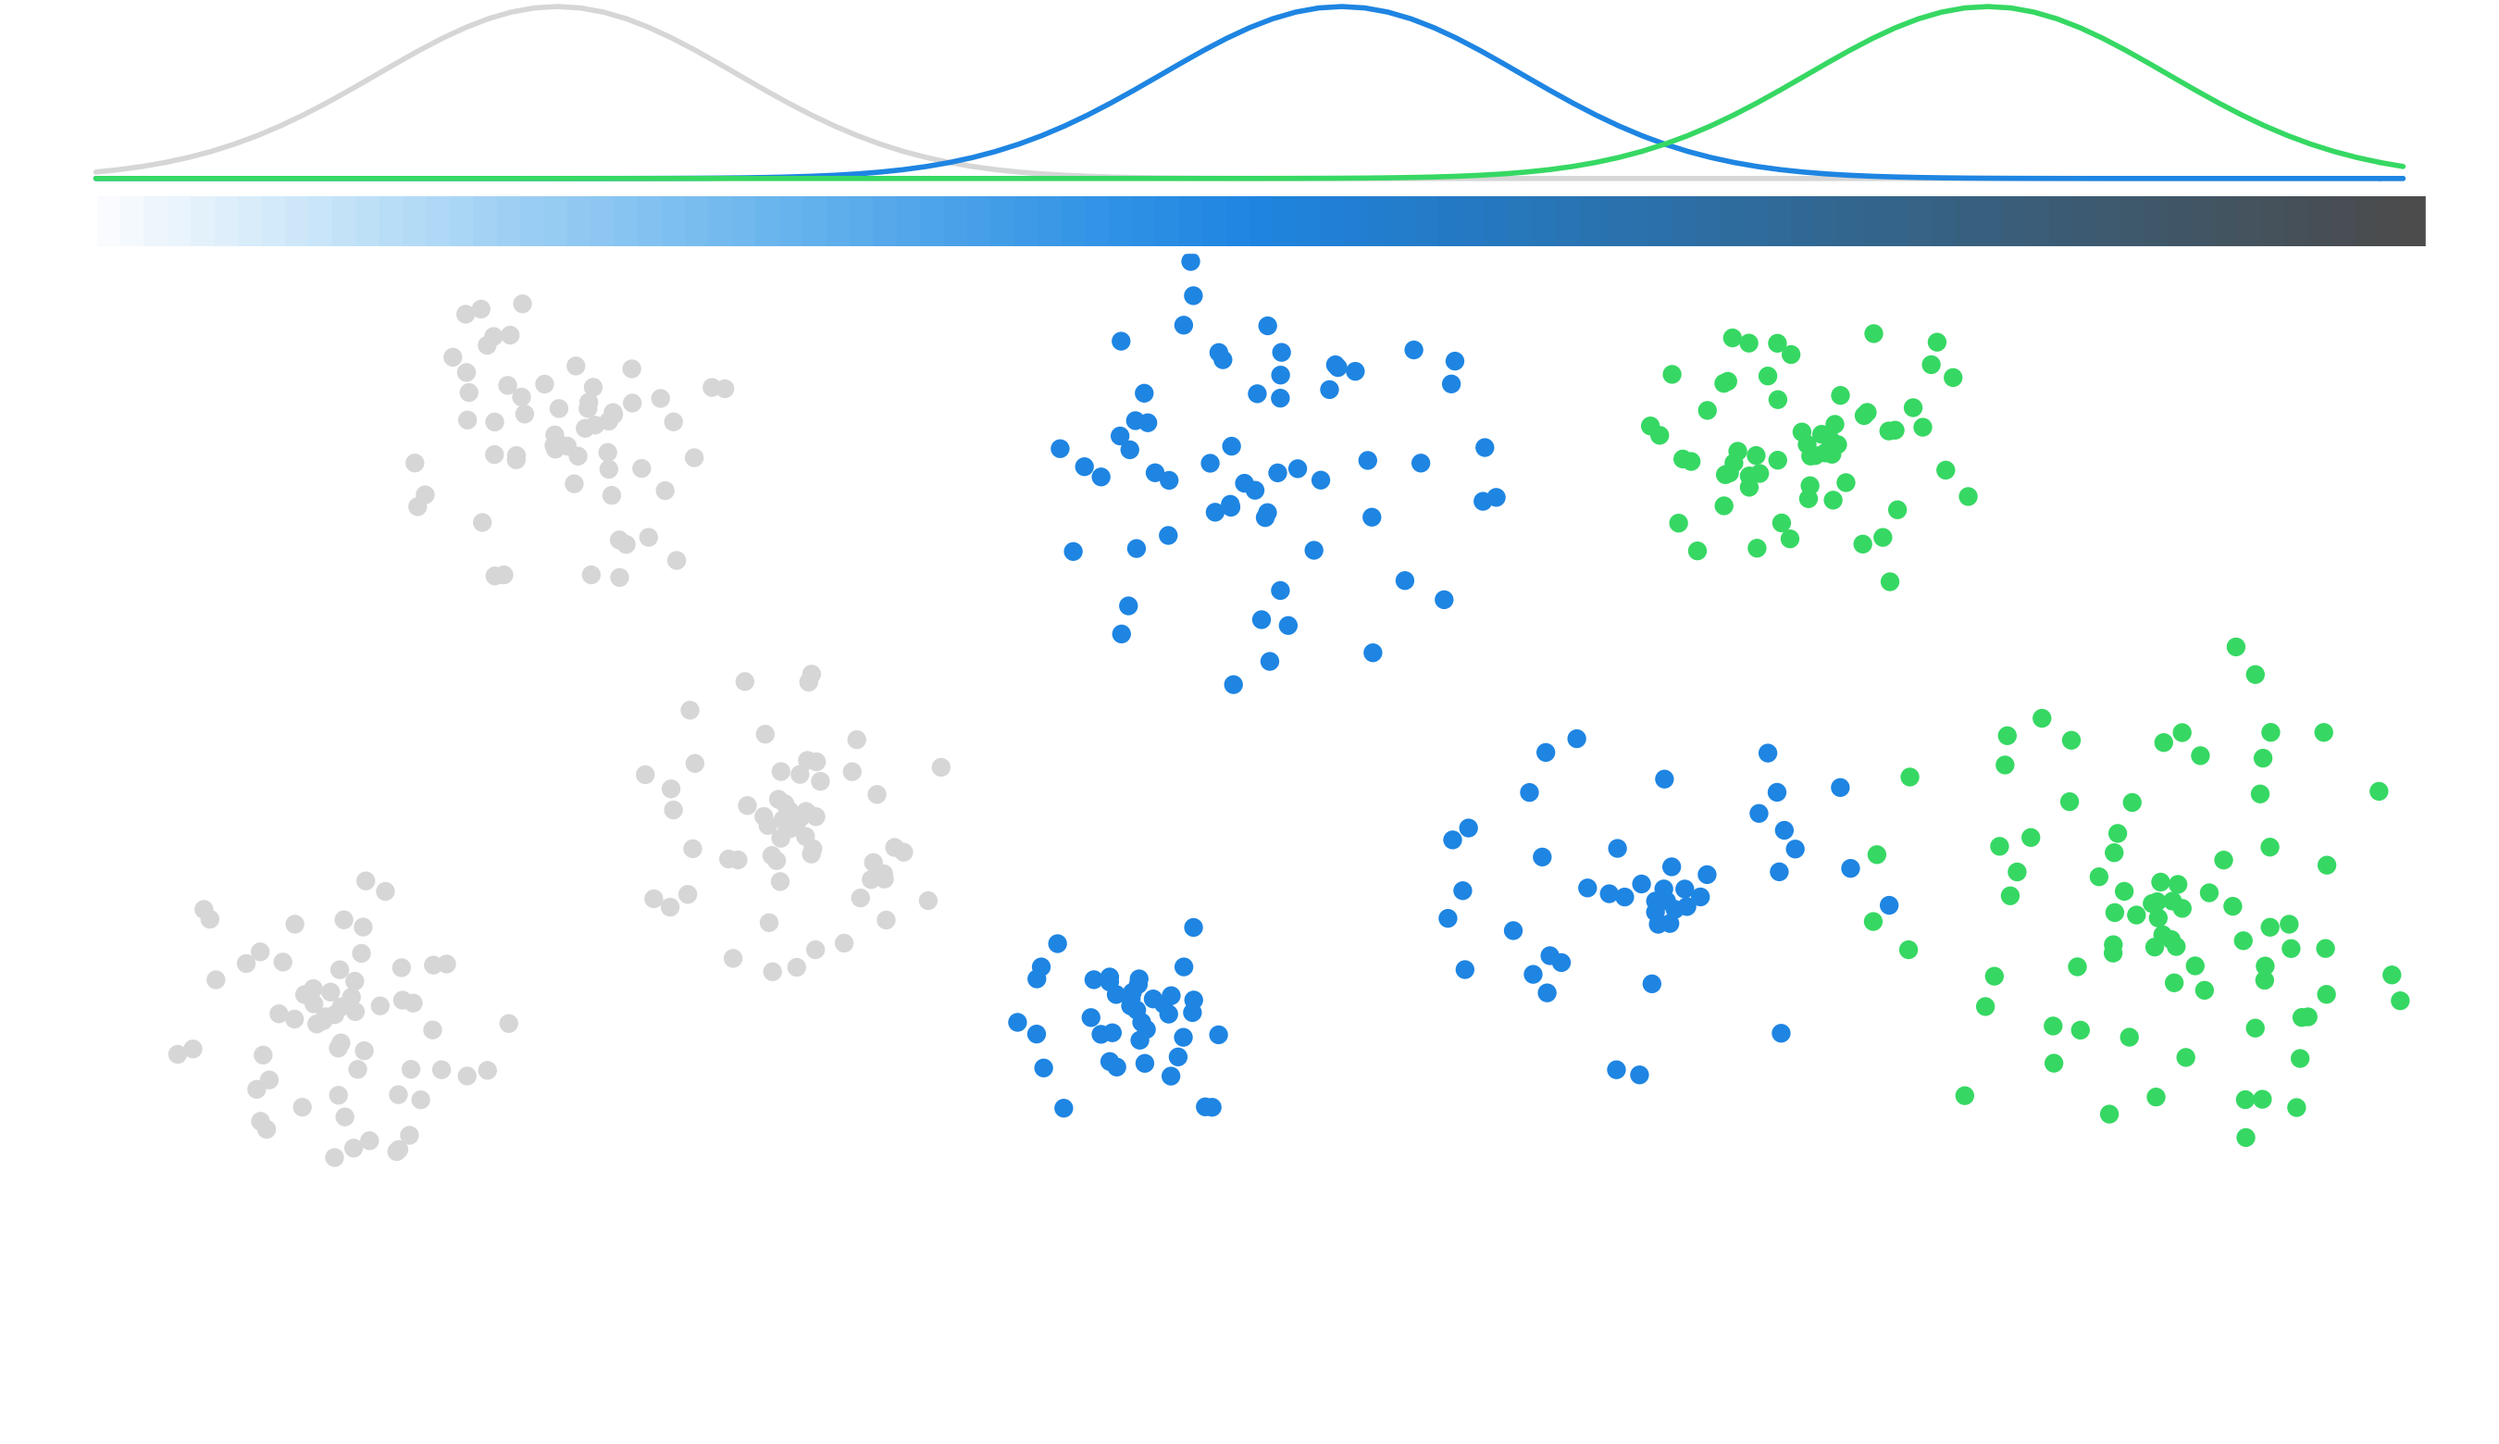
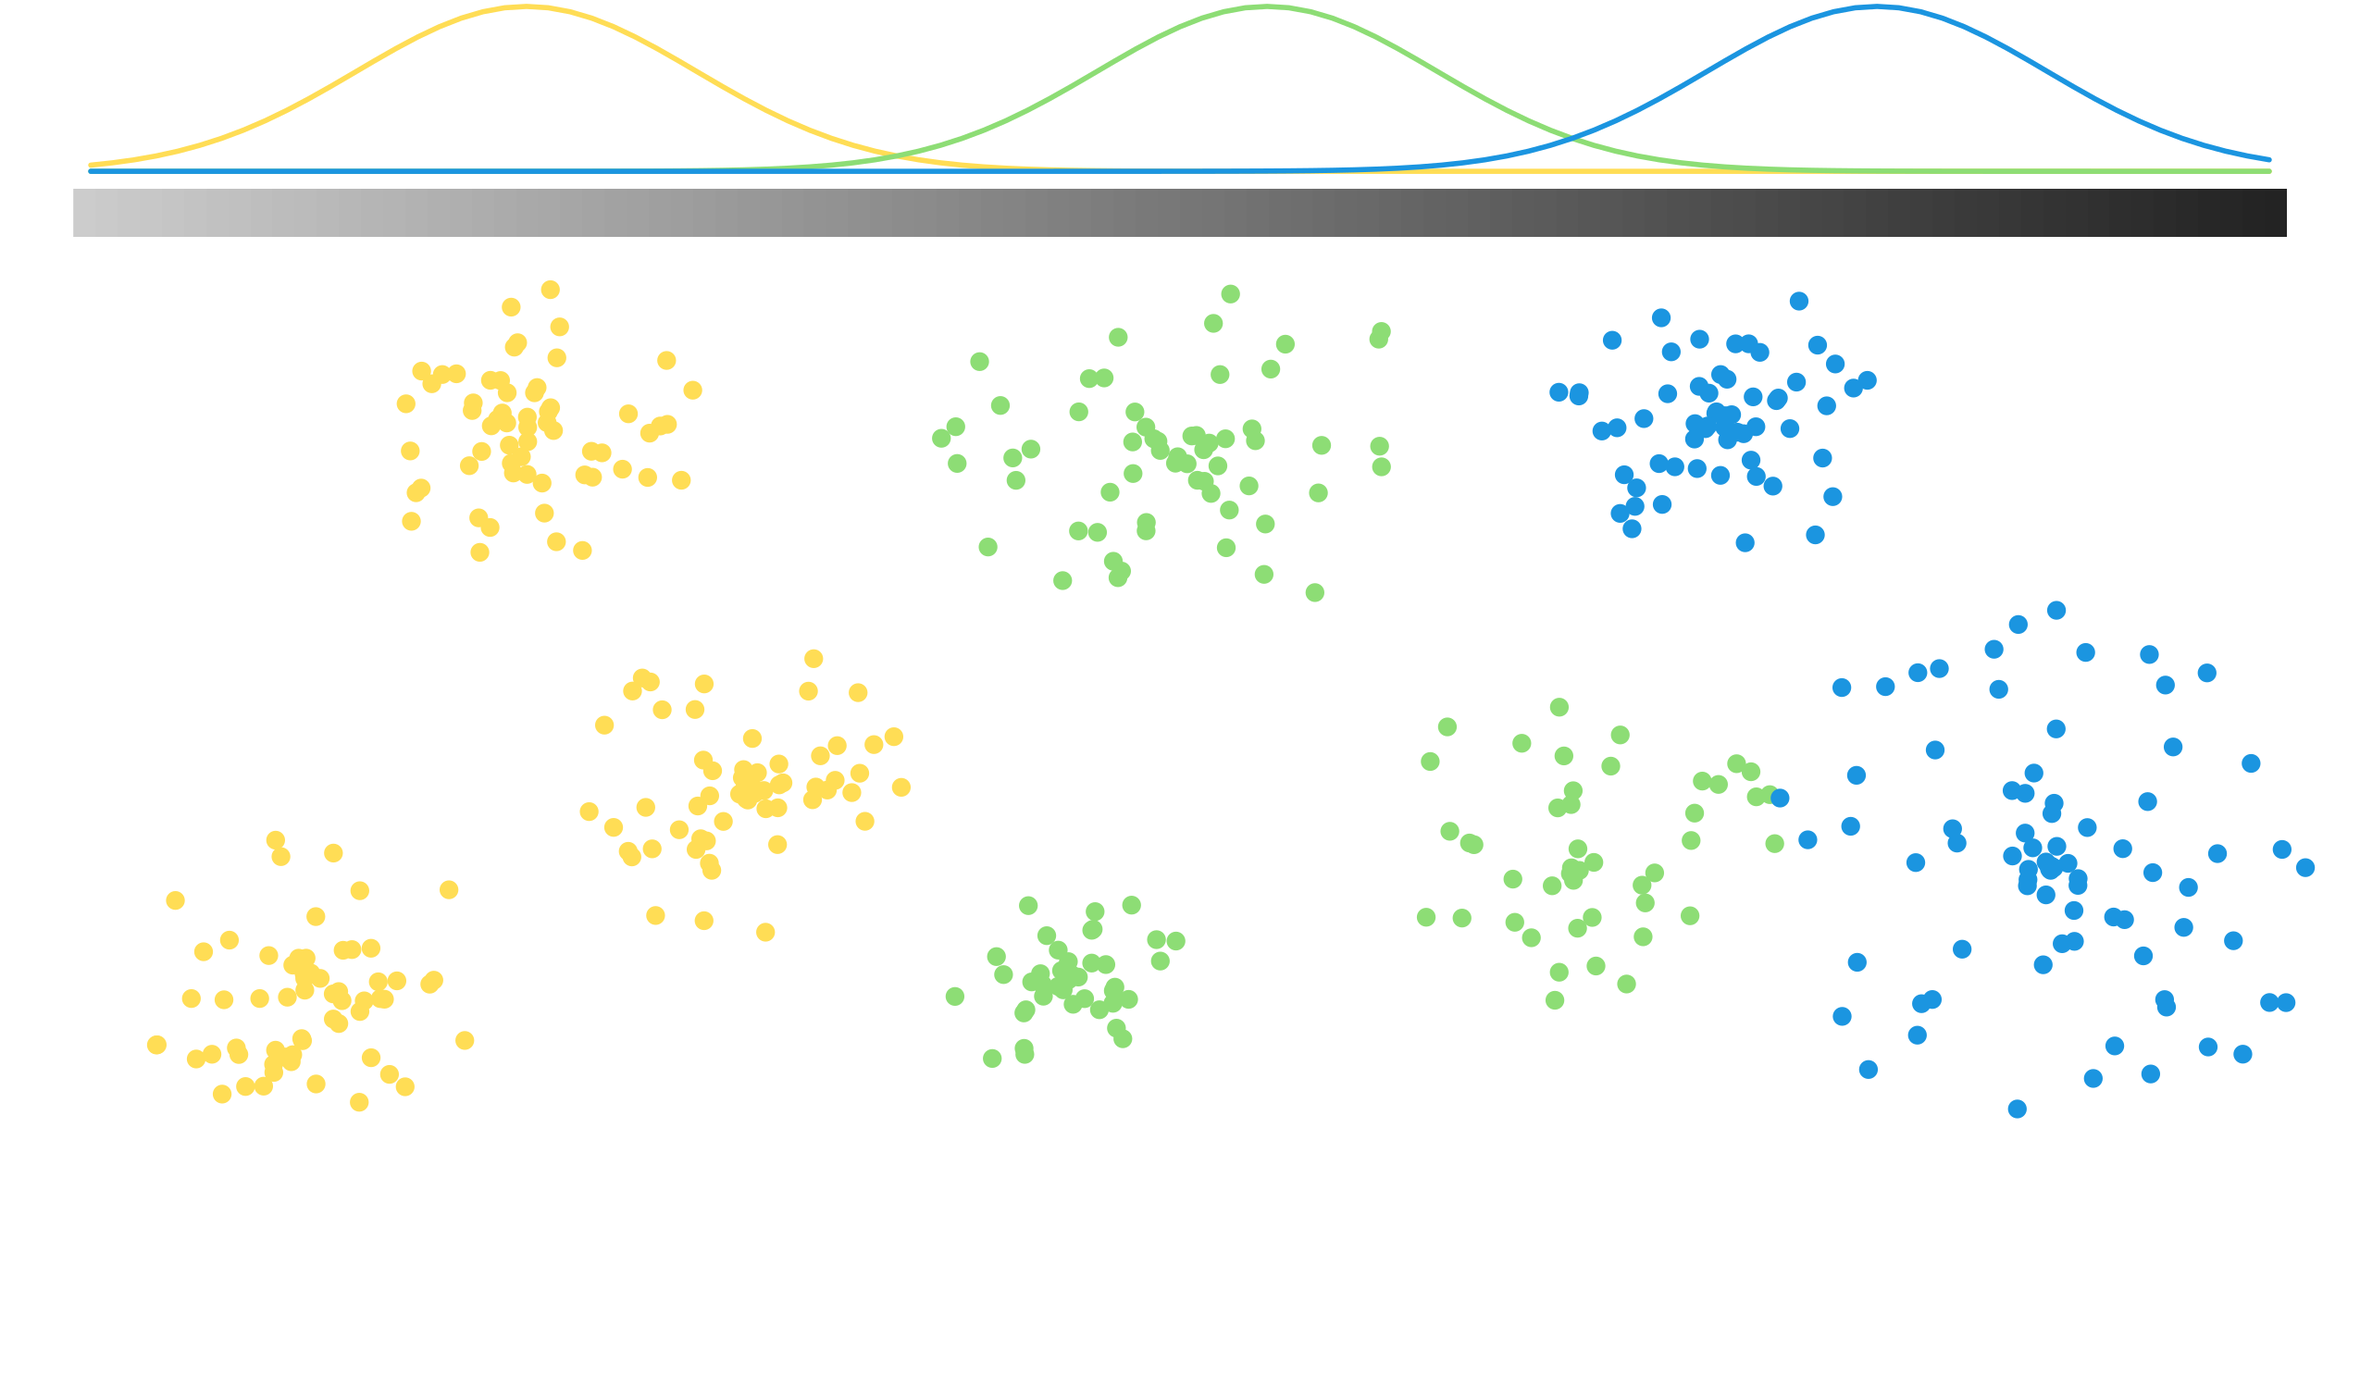
tune color first slides

diff --git a/index.html b/index.html
@@ -3,7 +3,7 @@
 
 <head>
 
-  <title> Towards an energetic theory of island biogeography </title>
+  <title> Toward an energetic theory of island biogeography </title>
   <meta charset="utf-8">
 
 
@@ -82,7 +82,7 @@
   }
 
   .small{
-    font-size: .87em;
+    font-size: .92em;
   }
 
   .alert{
@@ -123,12 +123,14 @@
   }
 
   .style1 {
-    background: #232323;
+    background: #212121;
     color: #fff;
     text-shadow: 0 0 2px #333;
   }
+
   .style1 h1, .style1 h2 {
     color: #fff;
+    font-size: 1.8em;
   }
 
   .style1 a {
@@ -145,7 +147,7 @@
 
   .style2 {
     background: #545454;
-    color: #232323;
+    color: #212121;
   }
   .style2 h1, .style2 h2 {
     color: #fff;
@@ -159,7 +161,7 @@
   }
 
   .style2 a {
-    color: #232323;
+    color: #212121;
   }
 
   </style>
@@ -182,16 +184,19 @@
     class: center, middle, style1
     ---
 
-    <br/>
 
-    # TOWARDS AN ENERGETIC THEORY OF ISLAND BIOGEOGRAPHY
+    # TOWARD AN ENERGETIC THEORY OF ISLAND BIOGEOGRAPHY
 
     <br/><br/>
     ### BSE Annual Meeting - December 14, 2017
 
     <br>
 
-    ### .left[[Kevin Cazelles](http://kevincazelles.fr) &nbsp;&nbsp; [<i class="fa fa-github" aria-hidden="true"></i>](https://github.com/KevCaz/talkBES2017)]
+    ### .left[[Kevin Cazelles](http://kevincazelles.fr)]
+
+    ### .left[<i class="fa fa-github" aria-hidden="true"></i> .small[[https://github.com/KevCaz/talkBES2017](https://github.com/KevCaz/talkBES2017)]]
+
+    <br>
 
     .right[[inSileco](https://inSileco.github.io/)]
     <img src="img/inSilecoLogo.png" height="120" align="right" style="padding:8px"/>
@@ -217,7 +222,56 @@
     layout: true
     class: style1
     ---
-    # A truism
+    # Biogeography: processes
+    <hr/>
+    .center[![:scale 100%](img/figall3.png)]
+
+    ---
+    # Biogeography: processes
+    <hr/>
+    .center[![:scale 100%](img/figall4.png)]
+
+    ---
+    # Biogeography: processes
+    <hr/>
+    .center[![:scale 100%](img/figall5.png)]
+
+    ---
+    # Biogeography: processes
+    <hr/>
+    .center[![:scale 100%](img/figall6.png)]
+
+    ---
+    # Biogeography: processes
+    <hr/>
+    .center[![:scale 100%](img/figall7.png)]
+
+    ---
+    # Biogeography: processes
+    <hr/>
+    .center[![:scale 100%](img/figall8.png)]
+
+    ---
+    # Factors influencing species distributions
+    <hr/><br/>
+    ## 1. Historical factors
+    --
+
+    ## 2. Dispersion
+    --
+
+    ## 3. Abiotic variables
+    --
+
+    ## 4. Biotic interactions
+    --
+
+    <br/>
+    # .center[[INTERDEPENDENT]()]
+
+
+    ---
+    # A truism?
     <hr/>
 
     <br><br>
@@ -227,10 +281,11 @@
     is intercepted and circulates in the form of our weather and climatic movements,
     and through animals and plants, before passing off again into space.
 
-    [Elton C., *Journal of Experimental Biology*, 1924.](http://jeb.biologists.org/content/2/1/119)
+    [Elton, *Journal of Experimental Biology*, 1924.](http://jeb.biologists.org/content/2/1/119)
 
     ---
-    # A truism
+    # A truism?
+    <hr/>
 
     ## Energy
 
@@ -245,59 +300,18 @@
 
 
     ---
-    # A truism
+    # A truism?
+    <hr/>
 
     .center[![:scale 100%](img/ecoreg.png)]
 
 
-    ---
-    # A set of rules
-    <hr/>
 
-    .center[![:scale 100%](img/figall4.png)]
-
-    ---
-    # A set of rules
-    <hr/>
-
-    .center[![:scale 100%](img/figall5.png)]
-
-    ---
-    # A set of rules
-    <hr/>
-
-    .center[![:scale 100%](img/figall6.png)]
-
-    ---
-    # A set of rules
-    <hr/>
-
-    .center[![:scale 100%](img/figall7.png)]
-
-
-
-    ---
-    # Factors influencing species distributions
-    <hr/><br/>
-    ## 1. Abiotic variables
-    --
-
-    ## 2. Dispersion
-    --
-
-    ## 3. Ecological interactions
-    --
-
-    ## 4. Historical factors
-    --
-
-    <br/>
-
-    # .center[[INTERDEPENDENT]()]
 
 
     ---
     # A challenge: predicting species distributions
+    <hr/>
 
     .center[![:scale 95%](img/figdem7.png)]
 
@@ -322,7 +336,7 @@
     ---
     # Building an Energetic TIB (a continuer)
     <hr />
-    ### How energy constrain species distribution?
+    ### How energy constrains species distribution?
 
 
     ---
@@ -345,47 +359,29 @@
     <hr/><br/>
     .center[![:scale 100%](img/figMW8.png)]
 
-
-
-
-
-    ---
-    # Model properties
-    <hr/><br/>
-
-    ## 1. Colonisation/extinction dynamics
-    --
-
-    <br/>
-    ## 2. Equilibrium
-    --
-
-    <br/>
-    ## 3. Elegant, easy to expand
-    --
-
-    <br/>
-    ## 4. Biotic and abiotic constraints are missing
-
     ???
-    Attention, ça marche bien... et très utilisé
+    Powerful vision but strong assumption
+
 
 
     ---
-    # Assumption of independence released
+    # Species are not Independent
     <hr/><br/>
 
     --
-    ## Gravel *et al*, 2011, *Ecology Letters*
+    ### [Holt, *Toward a Trophic Island Biogeography* (book chapter), 2009.](http://jeb.biologists.org/content/2/1/119)
+    <br>
 
     --
-    ### 1. Island without prey = no predator colonisation
-    ### 2. Predator without prey = extinction
-    <br/>
+    ### [Gravel *et al.*, *Ecology Letters*, 2011.](http://onlinelibrary.wiley.com/doi/10.1111/j.1461-0248.2011.01667.x/abstract)
+    <br>
 
     --
-    ### .right[Cazelles *et al*, 2016, [*Ecography*.](http://doi.org/10.1111/ecog.01714)]
+    ### [Cazelles *et al.*, *Ecography*, 2016.](http://onlinelibrary.wiley.com/doi/10.1111/ecog.01714/abstract)
+    <br>
 
+    --
+    ### [Massol *et al.*, *Advances in Ecological Research*, 2017.](https://doi.org/10.1016/bs.aecr.2016.10.004).
 
 
     ???
